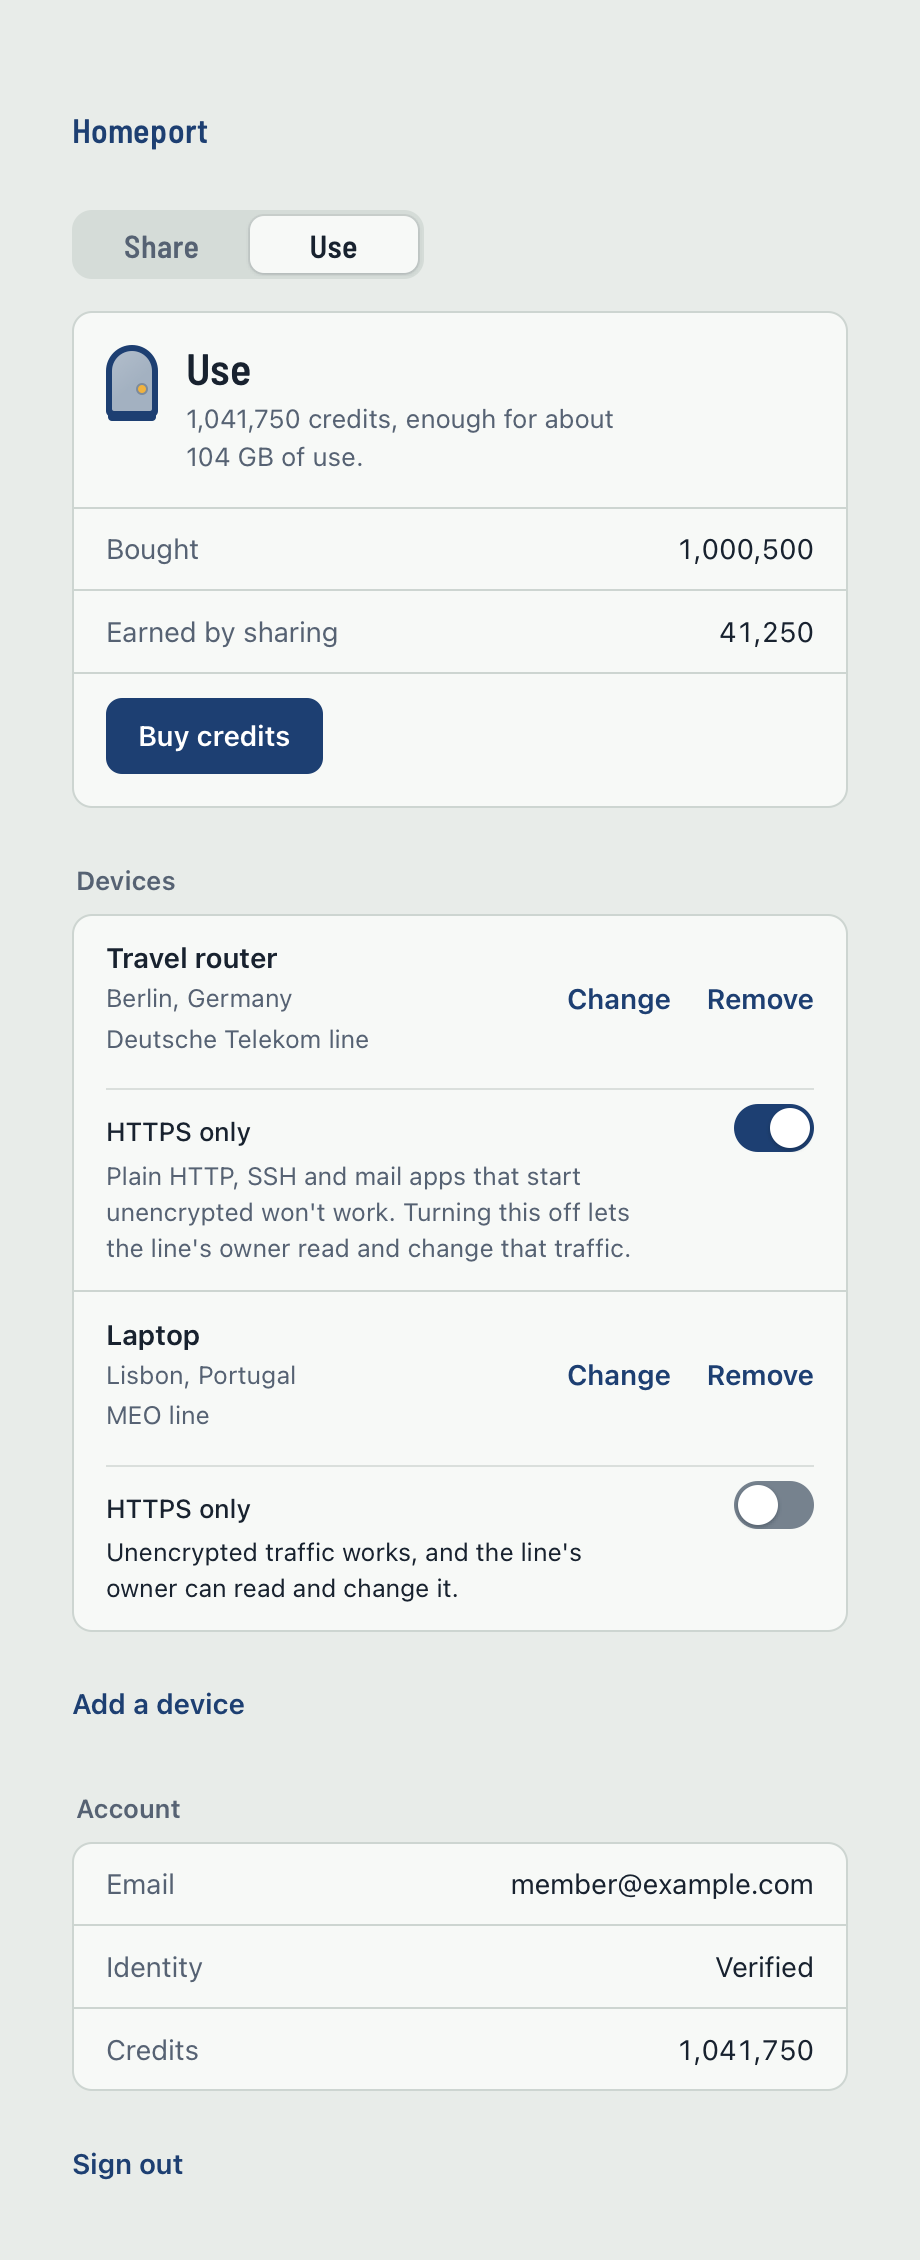
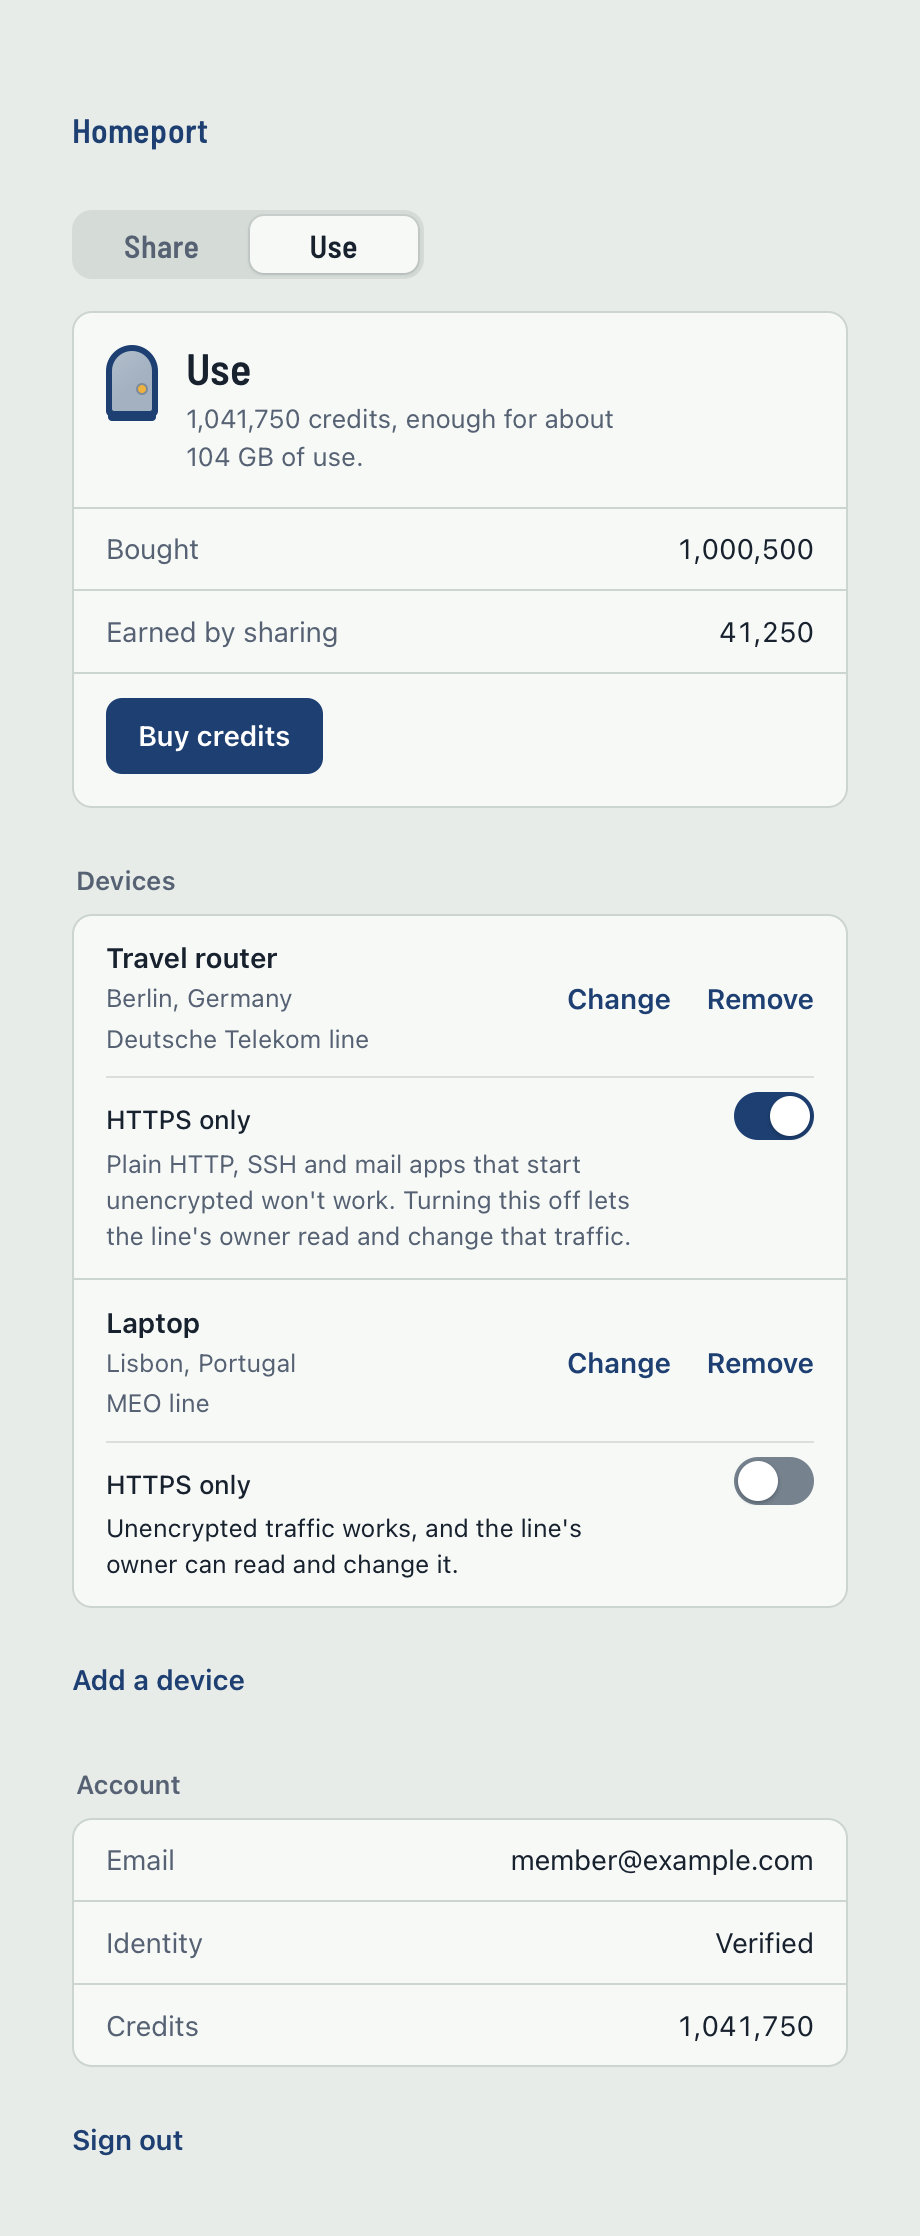
Fix review findings for the HTTPS only switch
- Take only https_only from the switch's answer, so a move saved while
  it was on its way stays.
- Drop an HTTPS only error once the devices load again.
- Keep the note on what holds until Homeport answers; only the switch
  shows the position asked for.
- Tie the error to the switch with aria-describedby, and send focus to
  Add a device when the device was removed elsewhere.
- Space device rows 10px apart as intended: .group .row's gap outranked
  the rule.
- Check that a moved device shows no backup notice, and share one patch
  helper in FakeUse.

diff --git a/desktop-app/frontend/src/use.ts b/desktop-app/frontend/src/use.ts
@@ -245,6 +245,16 @@ function without(turns: Ready["httpsOnly"], peerId: string): Ready["httpsOnly"] 
   return rest;
 }
 
+// inFlight keeps the turns still on their way, for devices still listed.
+// Once the devices load again, an error is old news: the switch shows
+// where the device is.
+function inFlight(turns: Ready["httpsOnly"], devices: Device[]): Ready["httpsOnly"] {
+  if (!turns) return undefined;
+  return Object.fromEntries(
+    Object.entries(turns).filter(([peerId, t]) => t.busy && devices.some((d) => d.peerId === peerId)),
+  );
+}
+
 export class Use {
   #view: UseView = { kind: "loading" };
   #listeners = new Set<(v: UseView) => void>();
@@ -312,10 +322,12 @@ export class Use {
     const v = this.#ready();
     if (!v) return;
     const [balance, devices] = data;
+    const now = devicesVersion === this.#devicesVersion ? this.#followMoves(devices) : v.devices;
     this.#set({
       ...v,
       balance: balanceVersion === this.#balanceVersion ? balance : v.balance,
-      devices: devicesVersion === this.#devicesVersion ? this.#followMoves(devices) : v.devices,
+      devices: now,
+      httpsOnly: inFlight(v.httpsOnly, now),
     });
   }
 
@@ -350,7 +362,9 @@ export class Use {
       return;
     }
     const v = this.#ready();
-    if (v && version === this.#devicesVersion) this.#set({ ...v, devices: this.#followMoves(devices) });
+    if (!v) return;
+    const now = version === this.#devicesVersion ? this.#followMoves(devices) : v.devices;
+    this.#set({ ...v, devices: now, httpsOnly: inFlight(v.httpsOnly, now) });
   }
 
   async #load(): Promise<void> {
@@ -810,10 +824,12 @@ export class Use {
     }
     const now = this.#ready();
     if (!now) return;
+    // Only HTTPS only comes from the answer: a move saved while it was on
+    // its way is newer than the rest of it.
     this.#devicesVersion++;
     this.#set({
       ...now,
-      devices: this.#followMoves(now.devices.map((x) => (x.peerId === peerId ? dev : x))),
+      devices: now.devices.map((x) => (x.peerId === peerId ? { ...x, httpsOnly: dev.httpsOnly } : x)),
       httpsOnly: without(now.httpsOnly, peerId),
     });
   }

diff --git a/desktop-app/frontend/src/use.test.ts b/desktop-app/frontend/src/use.test.ts
@@ -630,6 +630,25 @@ describe("changing a device", () => {
     expect(backupLine(ready().devices[0]!)).toBeUndefined();
   });
 
+  it("keeps a move that landed while HTTPS only was turning", async () => {
+    await open();
+    let answer!: (d: typeof laptop) => void;
+    api.setHttpsOnly = () => new Promise((r) => (answer = r));
+    const turning = use.toggleHttpsOnly(laptop.peerId);
+    await moving();
+    api.updateAnswer = { ...laptop, lineId: movedLine, httpsOnly: false, exitLine: exitOn(laptop.lineId) };
+    await use.saveDevice();
+    // The server turned HTTPS only before the move, so its late answer
+    // still has the old line.
+    answer({ ...laptop, httpsOnly: false });
+    await turning;
+
+    expect(ready().devices[0]).toMatchObject({ lineId: movedLine, httpsOnly: false });
+    api.devicesAnswer = [{ ...laptop, lineId: movedLine, httpsOnly: false, exitLine: exitOn(laptop.lineId) }];
+    await use.refreshDevices();
+    expect(backupLine(ready().devices[0]!)).toBeUndefined();
+  });
+
   it("shows a backup line again once the device has left its old line", async () => {
     await open();
     await moving();
@@ -930,6 +949,29 @@ describe("HTTPS only", () => {
 
     await use.toggleHttpsOnly(laptop.peerId);
     expect(httpsOnlyOf(ready(), ready().devices[0]!)).toEqual({ on: false, busy: false });
+  });
+
+  it("drops the error once the devices load again", async () => {
+    await open();
+    api.httpsOnlyAnswer = serviceError("offline");
+    await use.toggleHttpsOnly(laptop.peerId);
+
+    await use.refreshDevices();
+
+    expect(httpsOnlyOf(ready(), laptop)).toEqual({ on: true, busy: false });
+    expect(ready().httpsOnly).toEqual({});
+  });
+
+  it("keeps a turn on its way when the devices load again", async () => {
+    await open();
+    api.hold();
+    const turning = use.toggleHttpsOnly(laptop.peerId);
+
+    await use.refresh();
+
+    expect(httpsOnlyOf(ready(), laptop)).toEqual({ on: false, busy: true });
+    api.release();
+    await turning;
   });
 
   it("drops a device that was removed meanwhile", async () => {

diff --git a/desktop-app/frontend/src/test/fake-use.ts b/desktop-app/frontend/src/test/fake-use.ts
@@ -144,18 +144,12 @@ export class FakeUse implements UseApi {
     await this.#hold;
     const a = this.updateAnswer;
     this.updateAnswer = null;
-    if (a) return settle(a);
-    const devices = settle(this.devicesAnswer);
-    const old = devices.find((d) => d.peerId === peerId);
-    if (!old) throw new Error(`no device ${peerId}`);
     // A move lands on another line in the region, as the API picks it.
     const moved =
       change.country === undefined
         ? {}
         : { lineId: `line-${change.country}-${change.city || "any"}-2`, country: change.country, city: change.city || "Somewhere", isp: "M-net" };
-    const dev: Device = { ...old, ...moved, ...(change.failover ? { failover: change.failover } : {}) };
-    this.devicesAnswer = devices.map((d) => (d.peerId === peerId ? dev : d));
-    return dev;
+    return a ? settle(a) : this.#patch(peerId, { ...moved, ...(change.failover ? { failover: change.failover } : {}) });
   }
 
   async setHttpsOnly(peerId: string, on: boolean) {
@@ -164,11 +158,15 @@ export class FakeUse implements UseApi {
     await this.#hold;
     const a = this.httpsOnlyAnswer;
     this.httpsOnlyAnswer = null;
-    if (a) return settle(a);
+    return a ? settle(a) : this.#patch(peerId, { httpsOnly: on });
+  }
+
+  // #patch changes one of the devices, as the API answers a PATCH.
+  #patch(peerId: string, change: Partial<Device>): Device {
     const devices = settle(this.devicesAnswer);
     const old = devices.find((d) => d.peerId === peerId);
     if (!old) throw new Error(`no device ${peerId}`);
-    const dev: Device = { ...old, httpsOnly: on };
+    const dev: Device = { ...old, ...change };
     this.devicesAnswer = devices.map((d) => (d.peerId === peerId ? dev : d));
     return dev;
   }

diff --git a/desktop-app/frontend/src/view-use.ts b/desktop-app/frontend/src/view-use.ts
@@ -247,22 +247,24 @@ function deviceRow(d: Device, v: Ready): string {
 }
 
 // HTTPS only, per device: what it blocks while on, and what the line's
-// owner can do to the device's traffic while off.
+// owner can do to the device's traffic while off. The switch shows the
+// position asked for at once; the note says what holds until Homeport
+// answers.
 function httpsOnlySetting(d: Device, v: Ready): string {
   const { on, busy, error } = httpsOnlyOf(v, d);
-  const note = on
+  const note = d.httpsOnly
     ? "Plain HTTP, SSH and mail apps that start unencrypted won't work. Turning this off lets the line's owner read and change that traffic."
     : "Unencrypted traffic works, and the line's owner can read and change it.";
   const id = `https-${esc(d.peerId)}`;
   return `
-      <div class="device-https">
+      <div class="device-https" ${d.httpsOnly ? "" : "data-off"}>
         <div class="setting-text">
           <span class="setting-label" aria-hidden="true">HTTPS only</span>
           <p class="setting-note" id="${id}">${note}</p>
         </div>
         <button class="switch" type="button" role="switch" data-action="use-https-only" data-peer="${esc(d.peerId)}"
-          aria-checked="${on}" aria-label="HTTPS only for ${esc(d.name)}" aria-describedby="${id}" ${busyAttrs(busy)}><span class="knob"></span></button>
-        ${alert(error)}
+          aria-checked="${on}" aria-label="HTTPS only for ${esc(d.name)}" aria-describedby="${id}${error ? ` ${id}-error` : ""}" ${busyAttrs(busy)}><span class="knob"></span></button>
+        ${error ? `<p class="field-error panel-error" id="${id}-error" role="alert">${esc(useErrorText(error))}</p>` : ""}
       </div>`;
 }
 

diff --git a/desktop-app/frontend/src/ui-use.test.ts b/desktop-app/frontend/src/ui-use.test.ts
@@ -412,6 +412,7 @@ describe("changing a device", () => {
       `Munich, ${countryName("DE")}`,
       "M-net line",
     ]);
+    expect(q(`.device[data-peer="${laptop.peerId}"] .device-backup`)).toBeNull();
   });
 
   it("names the backup choices after the region it moves to", async () => {
@@ -486,6 +487,8 @@ describe("HTTPS only", () => {
 
     expect(httpsSwitch().getAttribute("aria-checked")).toBe("false");
     expect(httpsSwitch().getAttribute("aria-busy")).toBe("true");
+    // Until Homeport answers, the note says what still holds.
+    expect(note()).toContain("won't work");
     await vi.waitFor(() => expect(httpsSwitch().hasAttribute("aria-busy")).toBe(false));
     expect(httpsSwitch().getAttribute("aria-checked")).toBe("false");
     expect(use.httpsOnly).toEqual([[laptop.peerId, false]]);
@@ -503,6 +506,17 @@ describe("HTTPS only", () => {
     );
     expect(httpsSwitch().getAttribute("aria-checked")).toBe("true");
     expect(document.activeElement).toBe(httpsSwitch());
+    const described = (httpsSwitch().getAttribute("aria-describedby") ?? "").split(" ").map((id) => document.getElementById(id)?.textContent ?? "");
+    expect(described.join(" ")).toContain("can't be reached");
+  });
+
+  it("sends focus to Add a device when the device was removed elsewhere", async () => {
+    use.httpsOnlyAnswer = serviceError("device_gone");
+    httpsSwitch().focus();
+    httpsSwitch().click();
+
+    await vi.waitFor(() => expect(q(`.device[data-peer="${laptop.peerId}"]`)).toBeNull());
+    expect(document.activeElement).toBe(q('[data-action="use-add"]'));
   });
 });
 

diff --git a/desktop-app/frontend/src/style.css b/desktop-app/frontend/src/style.css
@@ -777,7 +777,10 @@ input:focus-visible {
 
 /* Devices */
 
+/* Rows wrap for the backup notice and HTTPS only, under the name. */
 .devices .row {
+  flex-wrap: wrap;
+  row-gap: 10px;
   padding-block: 12px;
 }
 
@@ -834,11 +837,6 @@ input:focus-visible {
 /* HTTPS only, per device: a setting under the device's name, set off by
    an inset rule, with the same enamel switch as Share. While it's off, the
    note says what the line's owner can do, in ink rather than slate. */
-.device {
-  flex-wrap: wrap;
-  row-gap: 10px;
-}
-
 .device-https {
   display: grid;
   flex-basis: 100%;
@@ -865,7 +863,7 @@ input:focus-visible {
   text-wrap: pretty;
 }
 
-.device-https:has([aria-checked="false"]) .setting-note {
+.device-https[data-off] .setting-note {
   color: var(--ink);
 }
 

diff --git a/desktop-app/frontend/src/ui.ts b/desktop-app/frontend/src/ui.ts
@@ -144,6 +144,8 @@ function fallbackFor(k: FocusKey): string | undefined {
     case "use-cancel-add":
     case "use-done":
     case "use-confirm-remove":
+    // The device was removed elsewhere, so its switch is gone.
+    case "use-https-only":
       return '[data-action="use-add"]';
     case "use-remove":
       return `[data-action="use-cancel-remove"]${peer}`;
